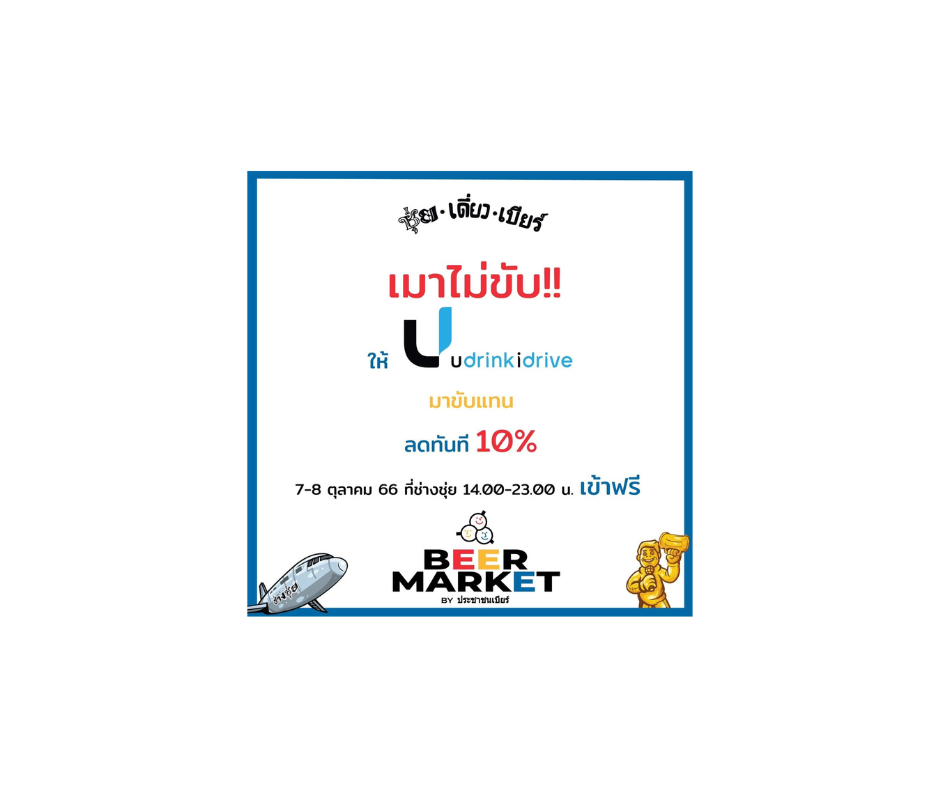
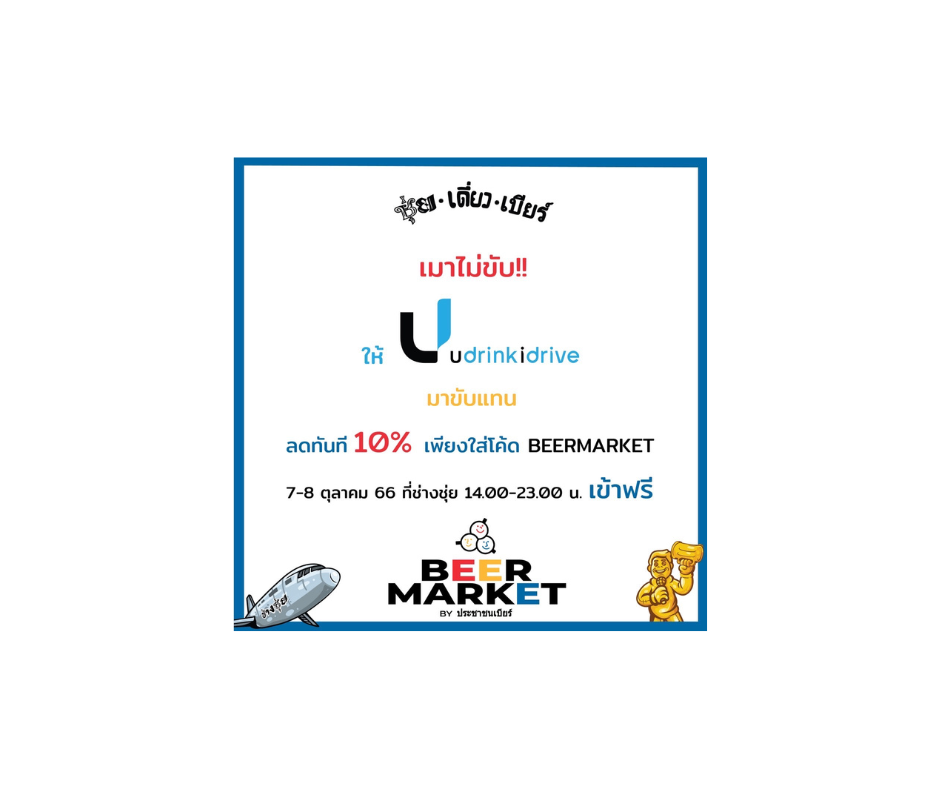
update promotion

Changed region(s): [[0.2468, 0.1827, 0.7713, 0.8223]]

diff --git a/src/components/map.jsx b/src/components/map.jsx
@@ -16,7 +16,7 @@ import ExpandMoreIcon from '@mui/icons-material/ExpandMore';
 import MoreVertIcon from '@mui/icons-material/MoreVert';
 import AirportShuttleIcon from '@mui/icons-material/AirportShuttle';
 import imgCard from './../assets/event.png';
-import imgPromotion from './../assets/promotion1.png';
+import imgPromotion from './../assets/promotion2.png';
 
 const ExpandMore = styled((props) => {
   const { expand, ...other } = props;
@@ -38,6 +38,44 @@ export default function Map() {
 
   return (
    <div>
+
+    <br></br>
+    <Card >
+      <CardHeader
+        avatar={      
+          <Avatar sx={{ bgcolor: red[500] }} aria-label="recipe">
+                     <AirportShuttleIcon></AirportShuttleIcon>
+          </Avatar>
+        }
+
+        title="โปรโมชั่น"
+        subheader="7-8 ตุลาคม 2566"
+      />
+      <CardMedia
+        component="img"
+        height="194"
+        image={imgPromotion}
+        alt="Paella dish"
+      />
+            <CardContent>
+            <Typography variant="body2" color="text.secondary" align="center">
+            งานนี้รอทุกท่านมาลิ้มลองรสชาติของเบียร์ชนิดต่างๆมากมาย ชิมจนหนำใจไม่ต้องกังวลถ้าขับรถกลับไม่ไหว
+            </Typography>
+            <Typography variant="body2" color="text.secondary" align="center">
+            เรามี U drink I drive มาขับแทน พาทุกคนกลับบ้านอย่างปลอดภัย
+            </Typography>
+            <Typography variant="body2" color="text.secondary" align="center">
+            แค่ใส่โค้ด "BEERMARKET" ก็ลดทันทีไปเลย 10% 
+            </Typography>           
+            <Typography variant="body2" color="text.secondary" align="center">
+            เรียกผ่านแอป U drink I drive หรือ โทรเรียกใช้บริการที่ 09108-09108 
+            </Typography>
+            </CardContent>
+      <CardActions disableSpacing>
+      </CardActions>
+    
+    </Card>
+
     <br></br>
      <Card >
       <CardHeader
@@ -67,39 +105,6 @@ export default function Map() {
             </CardContent>
       <CardActions disableSpacing>
       </CardActions>
-    </Card>
-    <br></br>
-    <Card >
-      <CardHeader
-        avatar={      
-          <Avatar sx={{ bgcolor: red[500] }} aria-label="recipe">
-                     <AirportShuttleIcon></AirportShuttleIcon>
-          </Avatar>
-        }
-
-        title="โปรโมชั่น"
-        subheader="7-8 ตุลาคม 2566"
-      />
-      <CardMedia
-        component="img"
-        height="194"
-        image={imgPromotion}
-        alt="Paella dish"
-      />
-            <CardContent>
-            <Typography variant="body2" color="text.secondary" align="center">
-                เมาไม่ขับ ให้ U Drink I Drive มาขับแทน 
-            </Typography>
-            <Typography variant="body2" color="text.secondary" align="center">
-              ลดทันที 10% 
-            </Typography>
-            <Typography variant="body2" color="text.secondary" align="center">
-            เพียงใส่โค้ด " BEERMARKET "
-            </Typography>
-            </CardContent>
-      <CardActions disableSpacing>
-      </CardActions>
-    
     </Card>
    </div>
 

diff --git a/src/components/mainpage.jsx b/src/components/mainpage.jsx
@@ -26,7 +26,7 @@ import SpiritImg from './../assets/spirit.png';
 import BeerImg from './../assets/beer.png';
 import spiritBrand from './../data/spirit.json';
 import beerBrand from './../data/beer.json';
-
+import { Tooltip } from 'antd';
 
 
 function Copyright(props) {
@@ -133,7 +133,7 @@ export default function MainPage() {
                               ) : 
                     menu === 2 ? 
                                 <div>
-                                  <Box sx={{ p: 1 }}>
+                                  <Box sx={{ p: 1 } }>  
                                   <Form ref={brandSelectRef}>         
                                   <Form.Item name="brand" label=""  >
                                   <Select
@@ -161,8 +161,12 @@ export default function MainPage() {
                                                 // }
                                                 options={beerBrandDatas}
                                               />
-                                          </Form.Item>   
+                                              
+                                          </Form.Item>                                            
                                       </Form>
+                                      {/* <Button type="primary" danger shape="circle" onClick={()=>setSelectBeer(null)} >
+                                        X
+                                      </Button> */}
                                   </Box>
 
                                     {selectBeer  === null ?   <Box sx={{ p: 1 }}><Image  src={BeerImg} /> </Box> 
@@ -206,6 +210,9 @@ export default function MainPage() {
                                               />
                                           </Form.Item>   
                                       </Form>
+                                      {/* <Button type="primary" danger shape="circle" onClick={()=>setSelectSpirit(null)} >
+                                        X
+                                      </Button> */}
                                   </Box>
 
                                
